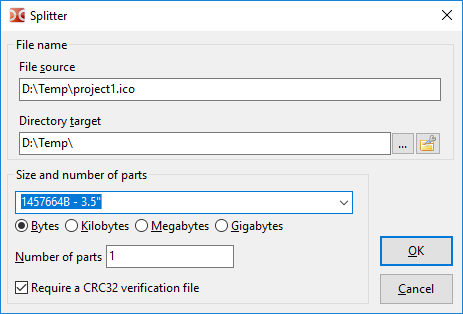
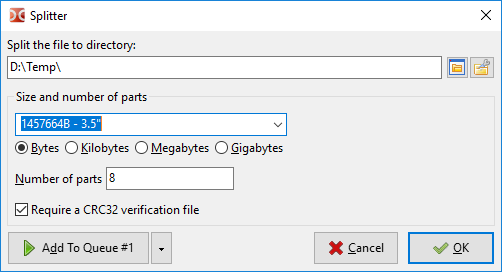
UPD: Splitter dialog screenshot

Changed region(s): [[0.0, 0.1176, 0.9978, 1.0], [0.0, 0.0, 1.0, 0.1176]]

diff --git a/doc/ru/help.html b/doc/ru/help.html
@@ -200,8 +200,7 @@
           <tt><a name="cm_FileSpliter">cm_FileSpliter</a></tt> и <tt>cm_FileLinker</tt>)</p>
         <p class="figure"><img class="largeimage" alt="Разрезать файл" title="Разрезать файл" src="images/imgDC/ris14-7.png"></p>
 
-        <p><span class="italic">Исходный файл</span>&nbsp;&mdash; указывается файл, который нужно разрезать.</p>
-        <p><span class="italic">Каталог назначения</span>&nbsp;&mdash; указывает, в какую папку будут помещены части файла после его разрезания.</p>
+        <p><span class="italic">Разбить файл в каталог</span>&nbsp;&mdash; указывает, в какую папку будут помещены части файла после его разрезания.</p>
         <p><span class="italic">Размер частей файла</span>&nbsp;&mdash; указывается размер частей, на которые будет разрезан файл. Можно ввести как своё значение, так и воспользоваться предустановленными:</p>
         <ul>
           <li><p>1457664B - 3.5"&nbsp;&mdash; размер для дискет формата 3.5</p></li>

diff --git a/doc/en/help.html b/doc/en/help.html
@@ -200,8 +200,7 @@
           <tt><a name="cm_FileSpliter">cm_FileSpliter</a></tt> and <tt>cm_FileLinker</tt>)</p>
         <p class="figure"><img class="largeimage" alt="Split file" title="Split file" src="images/imgDC/pic14-7.png"></p>
 
-        <p><span class="italic">File source</span>&nbsp;&mdash; specifies a file to split.</p>
-        <p><span class="italic">Directory target</span>&nbsp;&mdash; specifies destination folder for the split files.</p>
+        <p><span class="italic">Split the file to directory</span>&nbsp;&mdash; specifies destination folder for the split files.</p>
         <p><span class="italic">File size</span>&nbsp;&mdash; select size of split parts. You can also enter your own value. Presets are:</p>
         <ul>
           <li><p>1457664B — 3.5"&nbsp;&mdash; Floppy drive 3.5</p></li>
